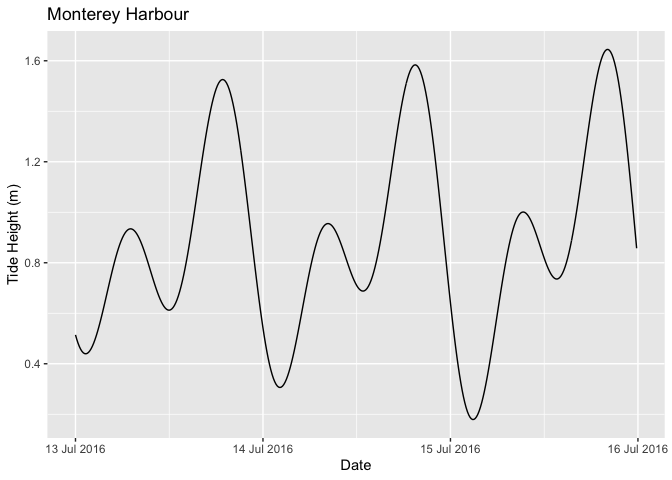
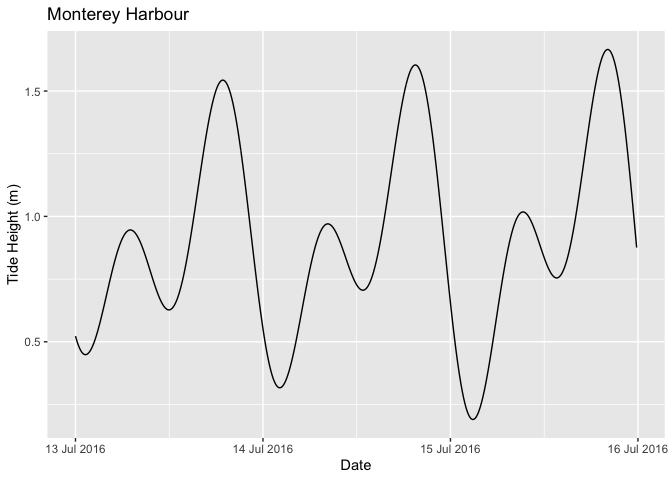
Updating README and docs

diff --git a/README.md b/README.md
@@ -23,7 +23,7 @@ coverage](https://codecov.io/gh/millerlp/rtide/graph/badge.svg)](https://app.cod
 `rtide` is an R package to calculate tide heights based on tide station
 harmonics.
 
-It includes the harmonics data for 637 US stations.
+It includes the harmonics data for 1293 US stations.
 
 ## Installation
 
@@ -58,16 +58,16 @@ print(data)
 #> # A tibble: 432 × 3
 #>    Station                               DateTime            TideHeight
 #>    <chr>                                 <dttm>                   <dbl>
-#>  1 Monterey, Monterey Harbor, California 2016-07-13 00:00:00      0.514
-#>  2 Monterey, Monterey Harbor, California 2016-07-13 00:10:00      0.496
-#>  3 Monterey, Monterey Harbor, California 2016-07-13 00:20:00      0.481
-#>  4 Monterey, Monterey Harbor, California 2016-07-13 00:30:00      0.468
-#>  5 Monterey, Monterey Harbor, California 2016-07-13 00:40:00      0.457
-#>  6 Monterey, Monterey Harbor, California 2016-07-13 00:50:00      0.449
-#>  7 Monterey, Monterey Harbor, California 2016-07-13 01:00:00      0.443
-#>  8 Monterey, Monterey Harbor, California 2016-07-13 01:10:00      0.440
-#>  9 Monterey, Monterey Harbor, California 2016-07-13 01:20:00      0.439
-#> 10 Monterey, Monterey Harbor, California 2016-07-13 01:30:00      0.441
+#>  1 Monterey, Monterey Harbor, California 2016-07-13 00:00:00      0.523
+#>  2 Monterey, Monterey Harbor, California 2016-07-13 00:10:00      0.505
+#>  3 Monterey, Monterey Harbor, California 2016-07-13 00:20:00      0.489
+#>  4 Monterey, Monterey Harbor, California 2016-07-13 00:30:00      0.476
+#>  5 Monterey, Monterey Harbor, California 2016-07-13 00:40:00      0.465
+#>  6 Monterey, Monterey Harbor, California 2016-07-13 00:50:00      0.457
+#>  7 Monterey, Monterey Harbor, California 2016-07-13 01:00:00      0.452
+#>  8 Monterey, Monterey Harbor, California 2016-07-13 01:10:00      0.449
+#>  9 Monterey, Monterey Harbor, California 2016-07-13 01:20:00      0.449
+#> 10 Monterey, Monterey Harbor, California 2016-07-13 01:30:00      0.451
 #> # ℹ 422 more rows
 ```
 
@@ -108,7 +108,20 @@ welcome.
 ## Inspiration
 
 The harmonics data was converted from
-<https://github.com/poissonconsulting/rtide/blob/main/data-raw/harmonics-dwf-20151227-free.tar.bz2>,
+<https://github.com/millerlp/rtide/blob/main/data-raw/harmonics-dwf-20251228-free.tar.xz>,
 NOAA web site data processed by David Flater for
 [`XTide`](https://flaterco.com/xtide/). The code to calculate tide
 heights from the harmonics is based on `XTide`.
+
+## Tide prediction updates
+
+The harmonic constituent data for the various tide stations are updated
+yearly by the XTide maintainer. The `rtide` package originally used a
+harmonic data base from 2015. An updated harmonic constituent database
+file from 2025-12-28 has been incorporated into `rtide` as of
+v0.0.12.9000 (August 2026), which adds many new tide stations, as well
+as slightly changing the harmonic constituent values for many stations.
+As a result, tide height predictions produced with earlier versions of
+the `rtide` package (v0.0.12 and earlier) may produce slightly different
+values than the predictions generated by the new harmonic data base.
+Those differences may typically only amount to a centimeter or less.
